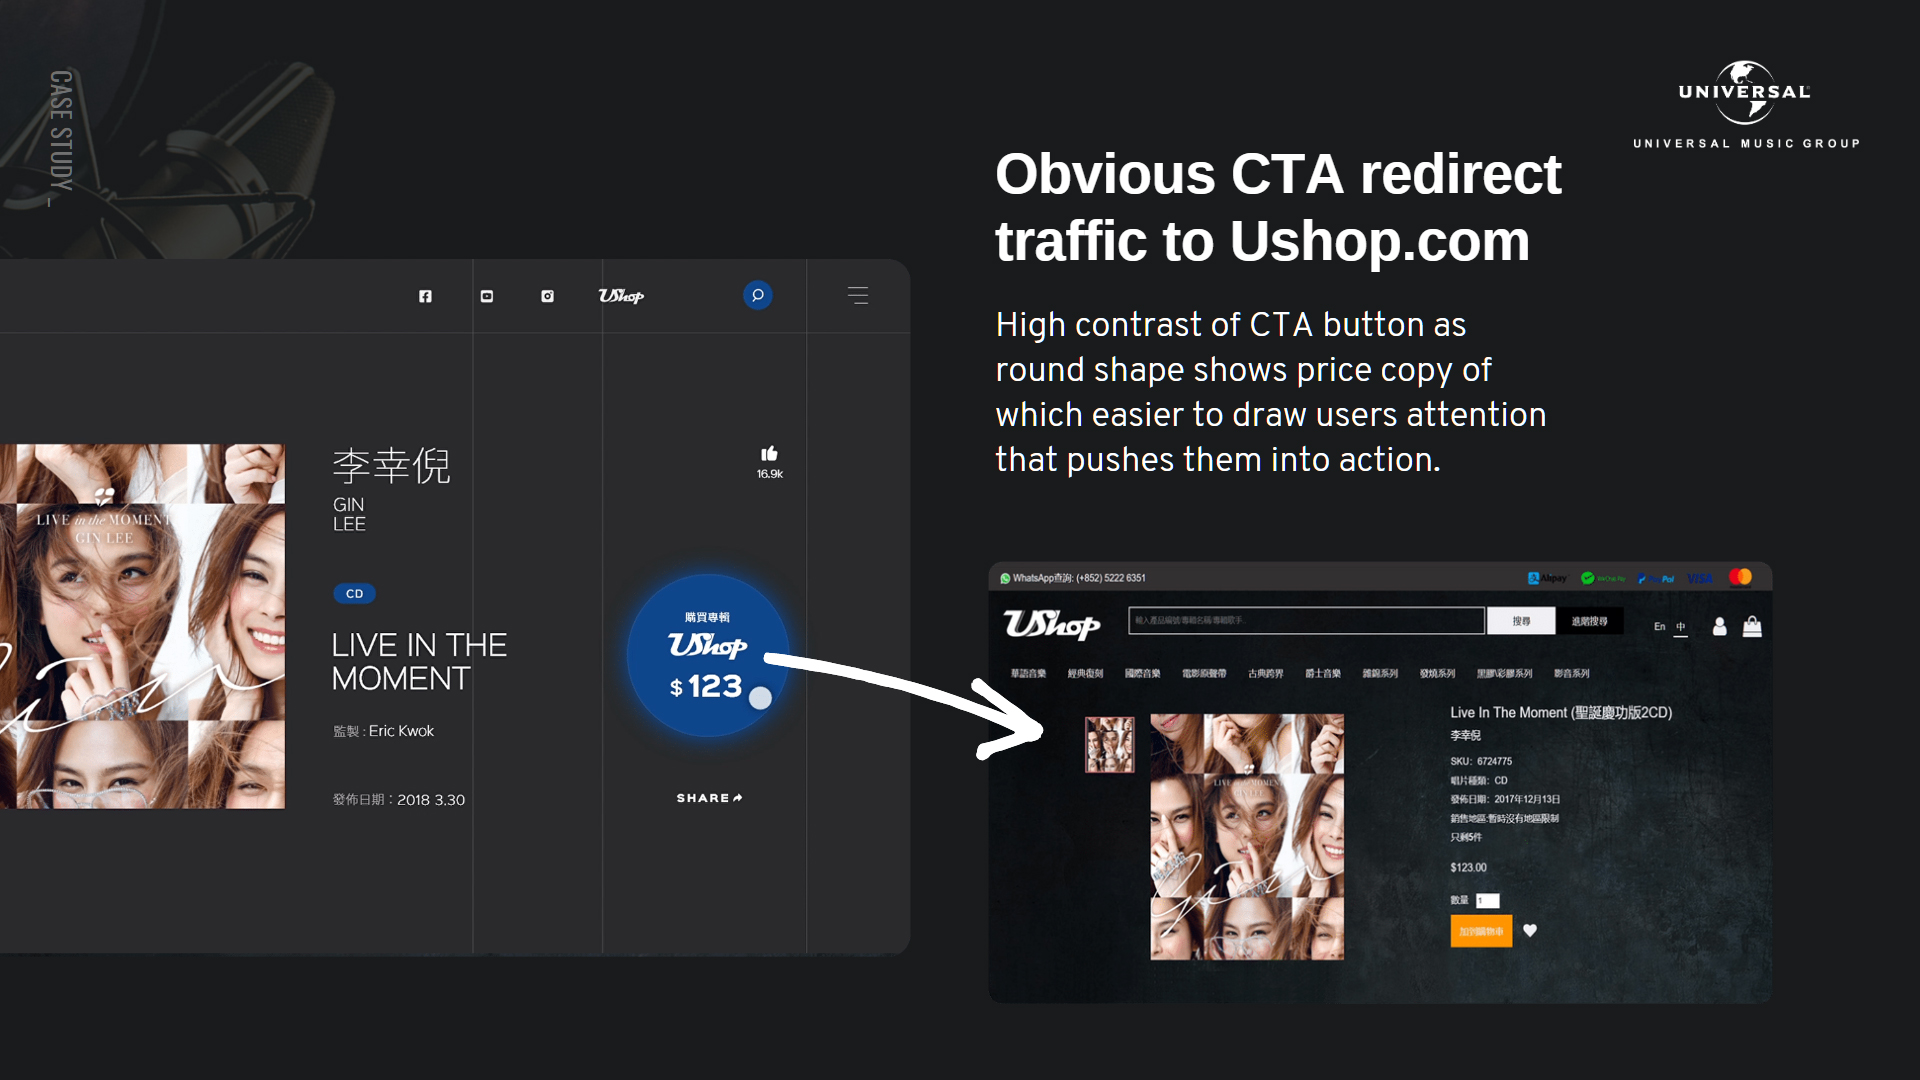
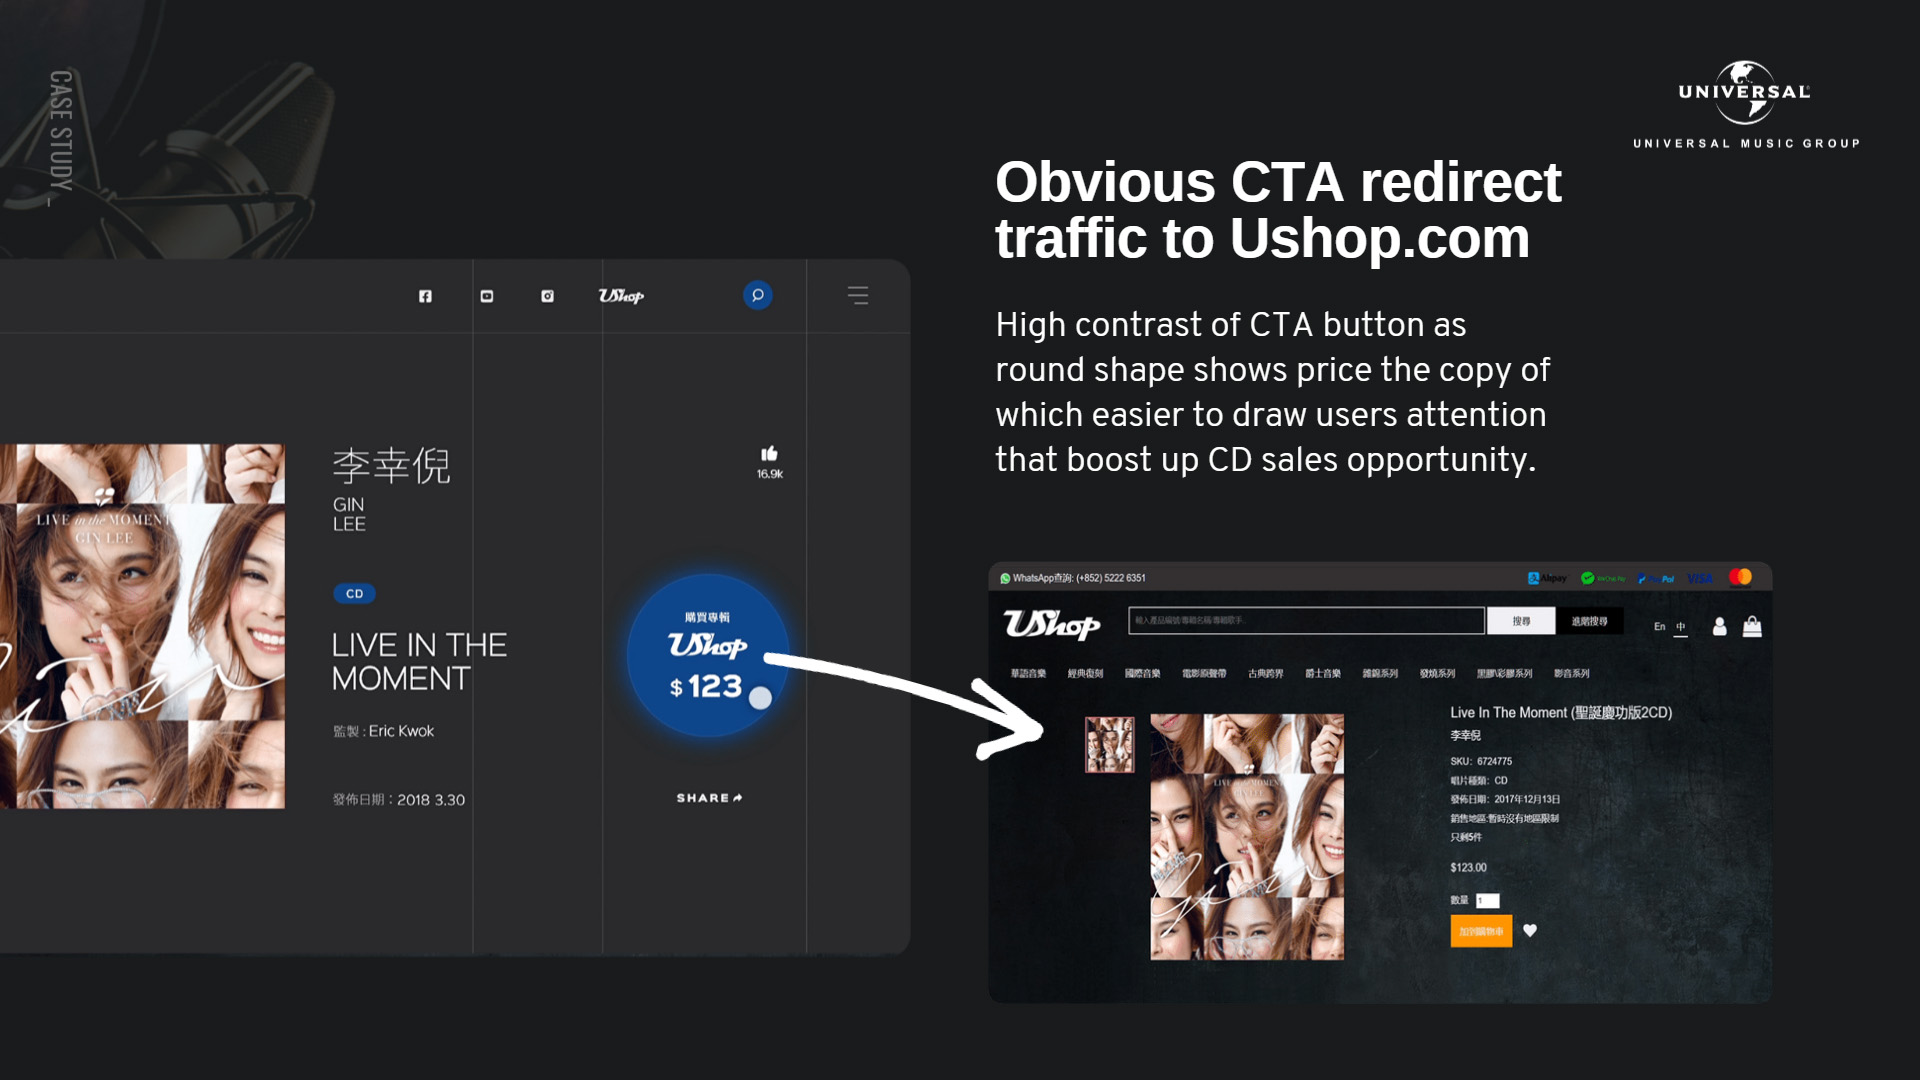
060223_02

diff --git a/project/umg_hk.html b/project/umg_hk.html
@@ -485,7 +485,7 @@
       <p class="observable body spacing-small">As prototyping shown, entire design was match well with the overall vibe in music branding. Utilized dark-gray themed with accent blue of UMG brand color which giving the website a highly contrast and modern look. A various of card-centric components for presenting content and also enriching key product such as CD cover and campaign artwork etc. This would have been great with UMG that have the tremendous content images assets. <span class="material-icons m-icons-position" style="font-size:12pt;">open_in_new</span> <a class="image-popup-fit-width underlined" style="opacity:0.8" title="Click on image to enlarge/reduce it"  href="../images/projects/umg_hk/ui_element.jpg">Detail</a></p>
 
       <p class="observable highlight-5 spacing-title">Interactive content</p>
-      <p class="observable body spacing-large">Created audio player widget that given audience to hear the highlight single. When hovering, this area will show related CD album link its also bring traffic to Ushop.com boost up CD sales intent. Beside, As release center "UMG PRESS" is consist of official news, Artist's social feed and Artist's event where is interchange navigating between the child page when user pulling down by click-through. <span class="material-icons m-icons-position" style="font-size:12pt;">open_in_new</span> <a class="image-popup-fit-width underlined" style="opacity:0.8" title="Click on image to enlarge/reduce it"  href="../images/projects/umg_hk/ui_interact.png">Detail</a></p>
+      <p class="observable body spacing-large">Created audio player widget that given audience to hear the highlight single. When hovering, this area will show related CD album link its also bring traffic to Ushop.com boost up CD sales opportunity. Beside, As release center "UMG PRESS" is consist of official news, Artist's social feed and Artist's event where is interchange navigating between the child page when user pulling down by click-through. <span class="material-icons m-icons-position" style="font-size:12pt;">open_in_new</span> <a class="image-popup-fit-width underlined" style="opacity:0.8" title="Click on image to enlarge/reduce it"  href="../images/projects/umg_hk/ui_interact.png">Detail</a></p>
     </div>
 
 
